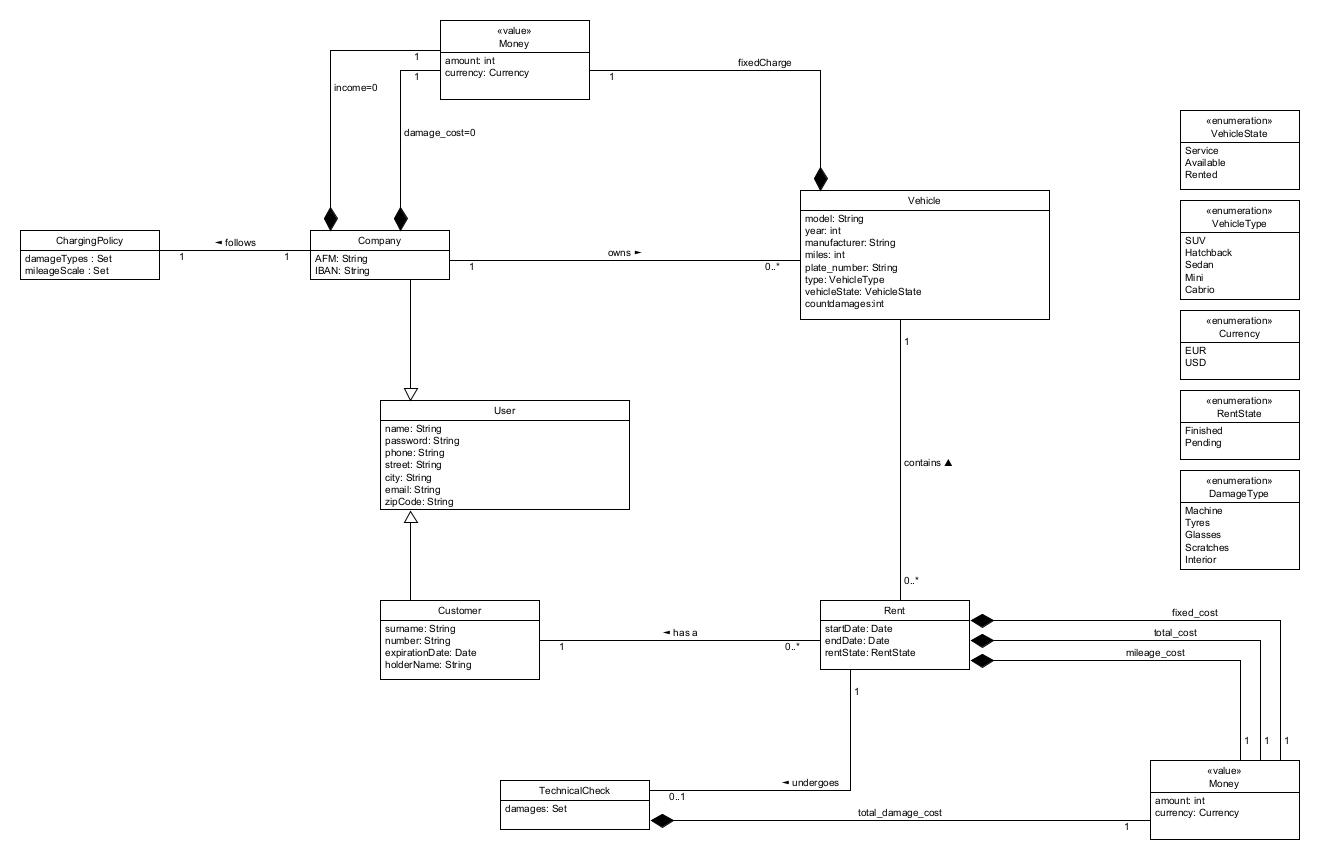
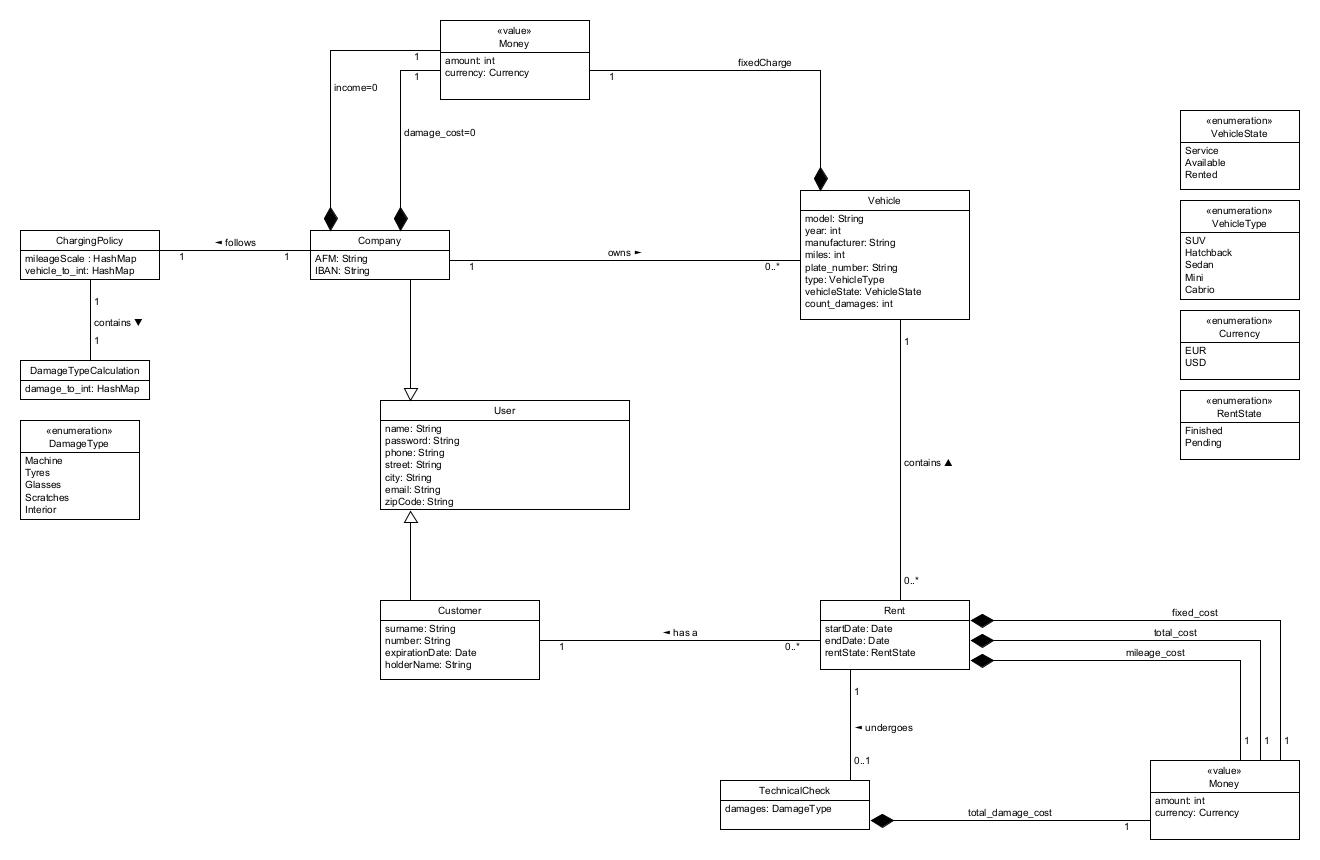
policy & technical check

diff --git a/README.md b/README.md
@@ -44,6 +44,8 @@
 15. Οι τύποι των οχημάτων θα είναι μόνο αυτοκίνητα στις ακόλουθες κατηγορίες: SUV, Hatchback, Sedan, Mini, Cabrio.
 16. Επειδή θεωρήσαμε οτι μία ενοικίαση τρέχει με sleep function (πχ, 10 δευτερόλεπτα), όταν μια εταιρεία κοιτάζει τις τρέχουσες ενοικιάσεις της, μπορεί να μην προλαβαίνει να τις δει όλες. Αυτό αντιμετωπίζεται με το να βάλουμε περισσότερα δευτερόλεπτα στο sleep function.
 17. Θεωρούμε οτι το νόμισμα με το οποίο γίνονται οι πληρωμές στο πρόγραμμα είναι EUR ή USD (για λόγους απλότητας θα χρησιμοποιείται το EUR στα δεδομένα μας, αλλά θα υπάρχει και δυνατότητα μετατροπής, εαν αυτή προκύψει).
+18. Για τον υπολογισμό της ζημιάς ενός οχήματος, τηρούνται δύο λεξικά. Στο ένα, η εταιρεία θα καταγράφει την βασική τιμή ζημιάς για κάθε τύπο ζημιάς, και στο δεύτερο, για κάθε τύπο οχήματος έναν αριθμό που θα λειτουργεί ως πολλαπλασιαστής. Δηλαδή, για να υπολογιστεί μια ζημιά, για έναν δοσμένο τύπο οχήματος, θα γίνεται ο πολλαπλασιασμός κόστος_ζημιάς*πολλαπλασιαστής_τύπου_οχήματος. Το μόνο που θα πρέπει να καταγράψει η εταιρεία, είναι δηλαδή το κόστος ανά ζημιά, και, πρακτικά, να ορίσει πόσο πιο ακριβός είναι ένας τύπος οχήματος, από έναν άλλον. 
+19. Το κόστος της ζημιάς μαζί με τον τύπο της, αποθηκεύονται στο TechnicalCheck, θεωρούμε οτι το όχημα θα έχει το πολύ μία ζημιά.
 
 ## Τεκμηρίωση
 
